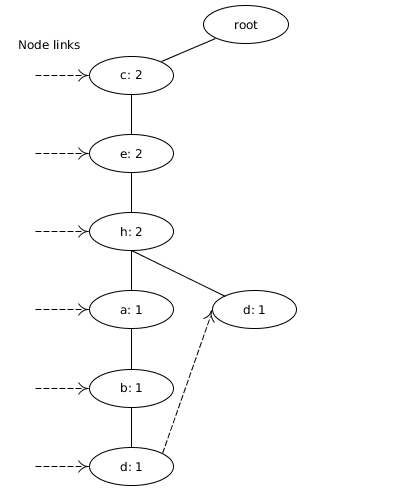
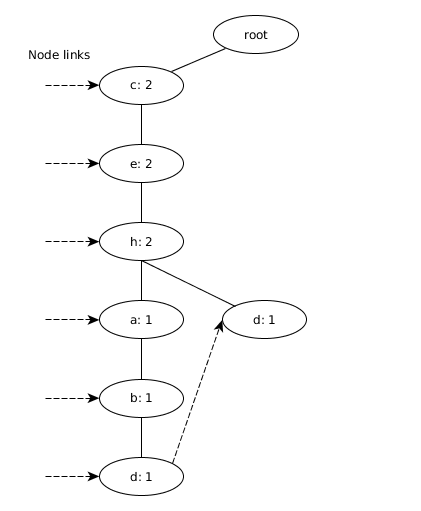
Finished chapter 4. Fixed different arrow heads in fp-tree-examples

diff --git a/thesis/chapters/association_analysis.tex b/thesis/chapters/association_analysis.tex
@@ -198,7 +198,7 @@ The way an FP-tree is constructed guarantees, that all FP-trees have the so call
 	\KwData{\textit{FP-tree} constructed using Algorithm~\ref{Algorithm:FP-tree}, minimum support threshold \textit{s}}
 	\KwResult{All frequent patterns of the database}
 	\SetKwProg{myalg}{Algorithm}{}{}
-	\myalg{\FPGrowth{\textit{FP-tree, \textit{s}}}}{
+	\myalg{\FPGrowth{\textit{FP-tree}, \textit{s}}}{
 		\nl	patternGrowth(\textit{FP-tree}, \textit{null})
 	}
 	\setcounter{AlgoLine}{0}
@@ -228,3 +228,49 @@ Formalizing the method discussed above yields Algorithm~\ref{Algorithm:FP-growth
 
 \subsection{Generating Association Rules from Frequent Patterns}
 
+The frequent patterns may reveal some interesting structures in the transaction database, as they effectively capture frequent co-occurrence of various items. Although this may be enough for some application domains, it is often the case that one would ultimately want to reveal some causal relationships between items or sets of items in the database. The association rules offer a rudimentary but fairly scalable solution for discovering "if X then Y" type of relationships between subsets of items in the frequent patterns. It should be noted here, that the field of causal inference expands far beyond scope of this thesis work and the association rules should at best be considered as candidates for causal relationships, not as proofs of such.
+
+Given a set of frequent patterns \textit{F}, and a minimum confidence threshold \textit{c}, the task of generating the association rules can be accomplished by the following method: 
+%Iterate through each set of items \textit{I} in \textit{F}. Iterate over each non-empty subset \textit{A} of \textit{I}. If $conf(A \Rightarrow I \setminus A ) \geq \textit{c}$ then output rule $A \Rightarrow I \setminus A$.
+
+\begin{enumerate}
+	\item For each set of items \textit{I} in \textit{F}
+	\begin{enumerate}
+		\item For each non-empty subset \textit{A} of \textit{I}
+		\begin{enumerate}
+			\item If $conf(A \Rightarrow I \setminus A ) \geq \textit{c}$ then output rule $A \Rightarrow I \setminus A$
+		\end{enumerate}
+	\end{enumerate}
+\end{enumerate}      
+
+While the proposed method does work when the size of the frequent patterns is small, this approach quickly becomes infeasible as the length of the patters grow. Given a frequent pattern \textit{I} with $\mid\textit{I}\mid$ items, there are a total of $2^{\mid\textit{I}\mid}$ subsets of which $2^{\mid\textit{I}\mid} - 2$ need to be tested as the set \textit{I} itself and the empty set can be discounted. Fortunately, a technique exists for pruning the search space, as described in~\cite{Agrawal:1994:FAM:645920.672836}. The confidence measure has the anti-monotone property, meaning that for any frequent pattern $I = \{A, B, C, D\}$ the following inequality holds:
+
+\[ conf(ABC \Rightarrow D) \geq conf(AB \Rightarrow CD) \geq conf(A \Rightarrow BCD) \] 
+
+\begin{algorithm}[!htbp]
+\SetAlgoLined\DontPrintSemicolon
+	\SetKwFunction{generateRules}{generateRules}
+	\KwData{A set of frequent patterns \textit{F}, a minimum confidence threshold \textit{c}}
+	\KwResult{Association rules discovered from the frequent patterns}
+	\SetKwProg{myalg}{Algorithm}{}{}
+	\myalg{\generateRules{\textit{F}, \textit{c}}}{
+		\nl \For{each frequent pattern \textit{P}}{ 
+			\nl \textit{C} $\leftarrow$ candidate rule generator of \textit{P} ordered by increasing length of candidate rule's consequent set length \;
+			\nl \While{\textit{C} has more candidate rules}{ 
+				\nl \textit{r} $\leftarrow$ get next candidate rule from \textit{C} \;
+				\nl \If{ $conf(\textit{r}) \geq \textit{c}$ }{
+					\nl output \textit{r} \;
+				}
+				\nl \Else{
+					\nl Remove all candidates rules \textit{r'} from \textit{C} where $r.consequents \subset r'.consequents$ \;
+				}
+			}		
+		}
+	}	
+	\caption{Generating association rules from frequent patterns}
+	\label{Algorithm:generate-association-rules}
+\end{algorithm}
+
+Since moving items from the antecedent set to the consequent set never increases the confidence of the rule, one can potentially prune an enormous amount of candidate rules by iterating the candidate rules in ascending order of length of the candidate rule's consequent set~\cite{Agrawal:1994:FAM:645920.672836}. After each iteration, if the candidate rule being processed did not have high enough confidence, then all remaining candidate rules whose consequent set contains a subset of the current candidate rules consequent set, can be pruned since the anti-monotone property guarantees that any such rule has confidence no higher than the current candidate rule. 
+
+Algorithm~\ref{Algorithm:generate-association-rules} gives an outline on how to generate association rules from frequent patterns with search tree pruning. The details of how to generate the combinations of items and how implement the pruning of the search space are not presented here. The algorithm takes a set of frequent patterns and a minimum confidence threshold as its arguments and returns the set of association rules discovered from the frequent patterns. In line 1 we start to iterate over the frequent patterns. In line 2 we initialize the candidate rule generator storing it to variable \textit{C}. In line 3, we enter a while loop which is terminated when generator \textit{C} has no more candidate rules to generate. In line 4 we store the next candidate rule from \textit{C} to variable \textit{r}. In lines 5-6, we test if the confidence of candidate rule \textit{r} is greater or equal to the minimum confidence threshold and output the rule if the criteria is met. If the confidence criteria was not met, we prune the candidate rule space of generator \textit{C} in lines 7-8.        
